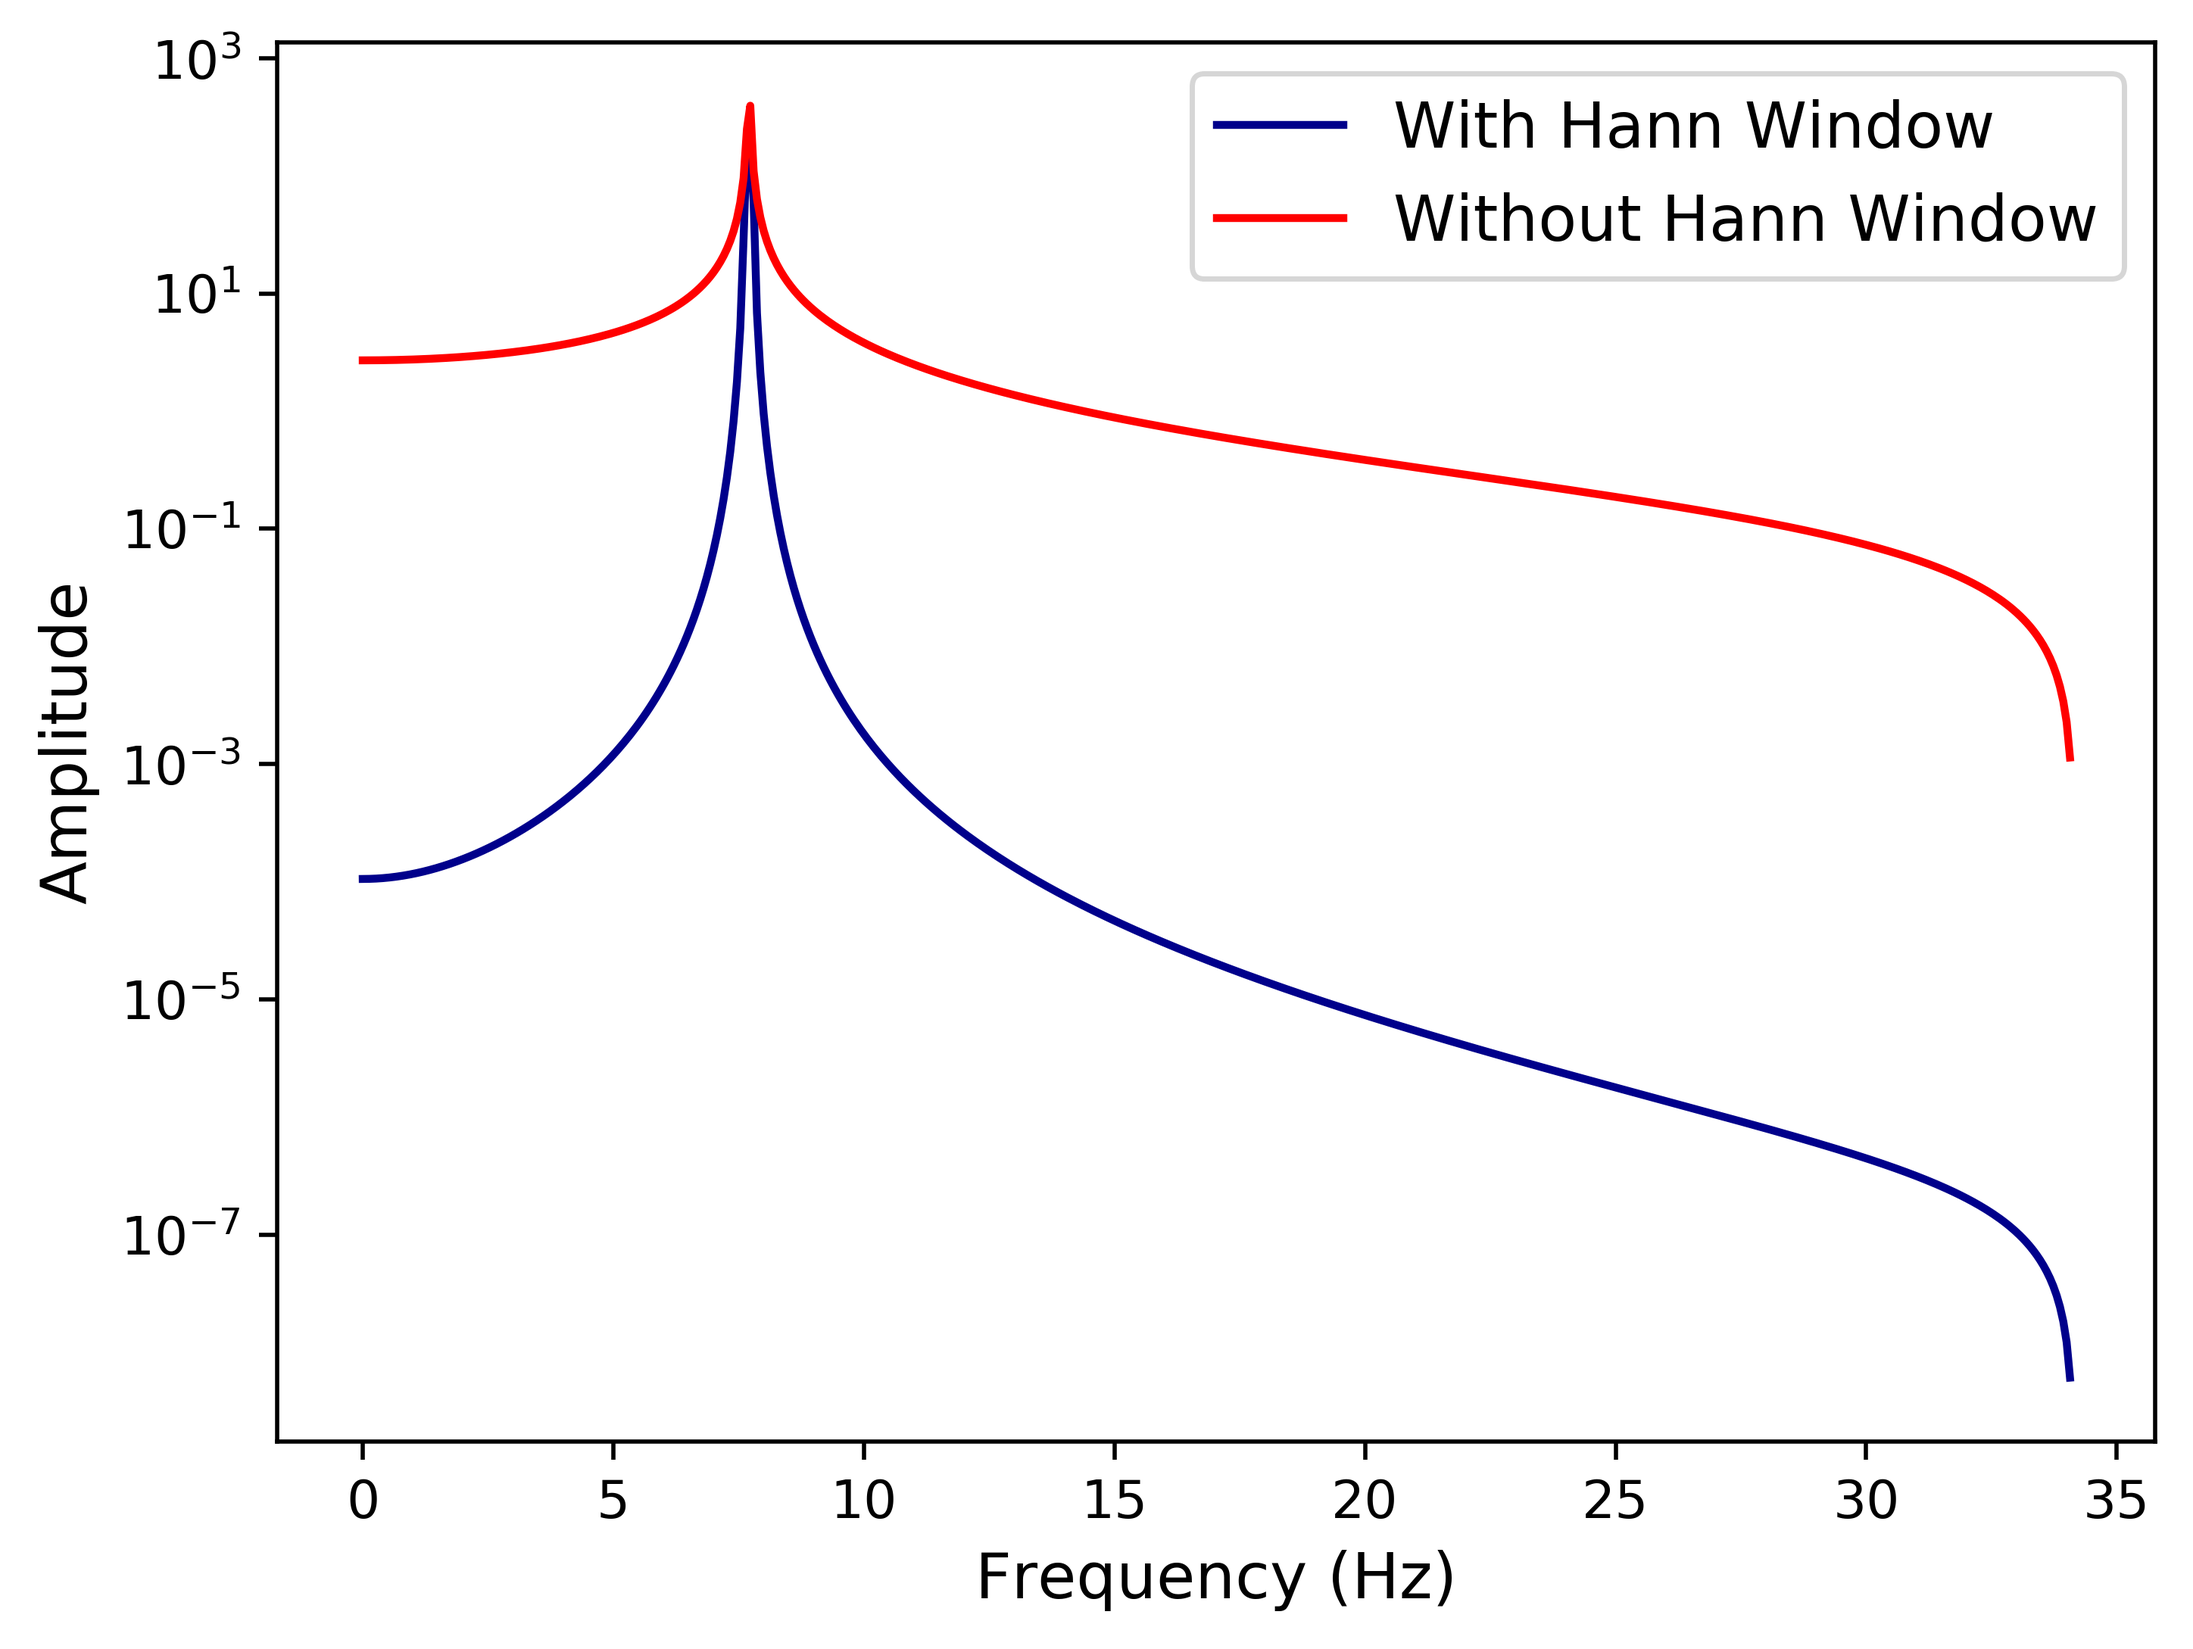
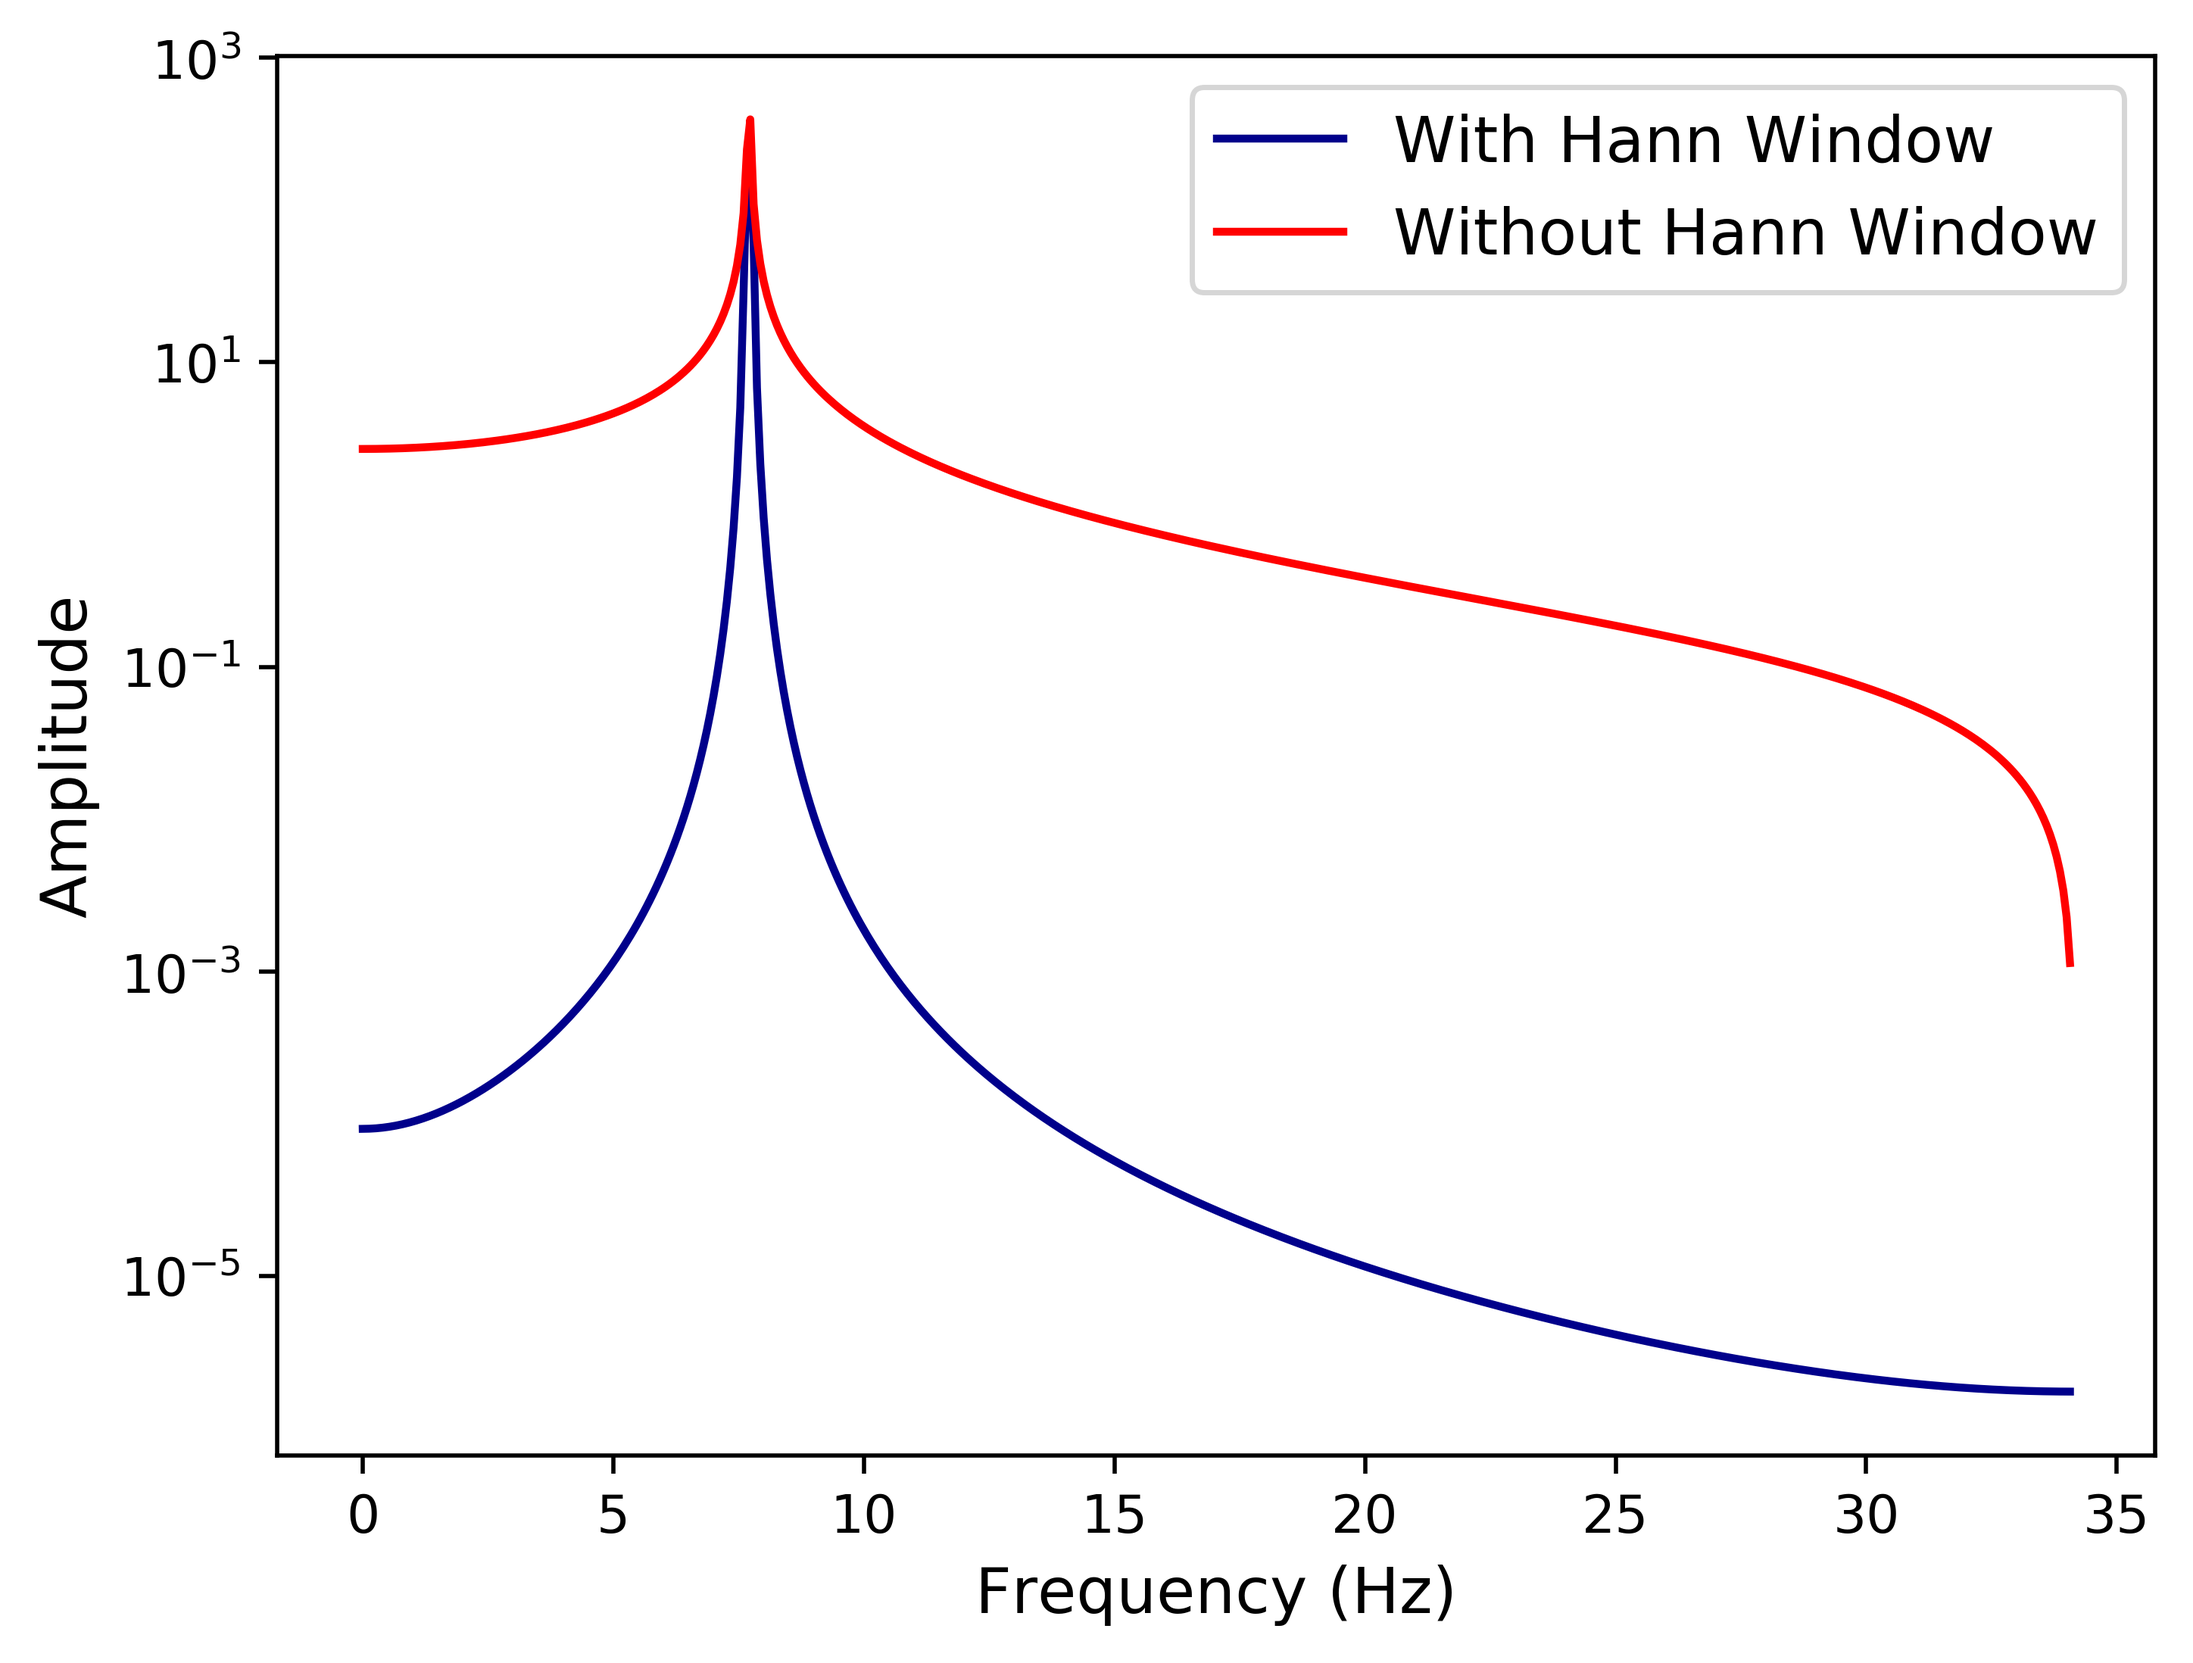
update

diff --git a/assignment4/problem_5.py b/assignment4/problem_5.py
@@ -34,11 +34,12 @@ plt.ylabel(r"Residauls ($10^{-11}$)",fontsize=12)
 #plt.savefig("problem_5_analyticres.png",bbox_inches="tight",dpi=500)
 plt.show()
 
-print("Mean Residual=",np.mean(res))
-print("Residual STD=",np.std(res,ddof=1))
+#print("Mean Residual=",np.mean(res))
+#print("Residual STD=",np.std(res,ddof=1))
 
 #Windowing: choose the window function to be 0.5-0.5cos(2πx/N) (i.e. the Hann window)
-ywind = np.hanning(N) #numpy function for the Hann window
+xx = np.linspace(0,N-1,N)/N
+ywind = 0.5*(1-np.cos(2*np.pi*xx))
 fftnew = fft(y*ywind)[:int(len(y)/2)]
 plt.plot(freq,np.abs(fftnew),color="darkblue",linewidth=2,label="With Hann Window")
 plt.plot(freq,np.abs(fftsine),"r-",linewidth=2,label="Without Hann Window")
@@ -58,14 +59,37 @@ plt.legend(fontsize=12)
 plt.show()
 
 #Fourier transform of the window
-ywind = np.hanning(N+1)
 ywindfft = fft(ywind)
+print("Showing the Fourier Transform of the Window =", np.real(ywindfft)/N)
 
-def wind(k):
-    first = 0.5*(np.sin(np.pi*N*k))/np.sin(np.pi*k)
-    second = 0.25*np.exp(-complex(0,1)*np.pi/N)*(np.sin(np.pi*N*(k-(1/N))))/np.sin(np.pi*(k-(1/N)))
-    third = 0.25*np.exp(complex(0,1)*np.pi/N)*(np.sin(np.pi*N*(k+(1/N))))/np.sin(np.pi*(k+(1/N)))
-    return np.exp(-complex(0,1)*np.pi*k*(N-1))*(first+second+third)
+"""
+#The analytic solution we produced if you want to check, however the results are not great
+def window(k):
+    first = (1-np.exp(-2*np.pi*complex(0,1)*k))/(1-np.exp(-2*np.pi*complex(0,1)*k/N))
+    second = (1-np.exp(-2*np.pi*complex(0,1)*(k+1)))/(1-np.exp(-2*np.pi*complex(0,1)*(k+1)/N))
+    third = (1-np.exp(-2*np.pi*complex(0,1)*(k-1)))/(1-np.exp(-2*np.pi*complex(0,1)*(k-1)/N))
+    return 0.5*(first-0.5*(second+third))
 
-print(np.abs(wind(np.linspace(0,N-1,N)/N))/N)
-print("Showing the Fourier Transform of the Window=",np.abs(ywindfft)/N)
+print("Analytic=", (window(np.linspace(0,N-1,N)))/N)"""
+
+#Recreating the window function with some code ;)
+fftsine = fft(y) #so we get the entire transform as we had cut out half of it before
+fftwindowm = []
+for i in range(0,len(fftsine)):
+    if i==0: #remember that it is symmetric, so we can find neighbor terms even for the boundary terms
+        fftwindowm.append(0.5*fftsine[i]-0.25*(fftsine[-1]+fftsine[i+1]))
+        continue
+    if i==len(fftsine)-1: #same as above
+        fftwindowm.append(0.5*fftsine[i]-0.25*(fftsine[0]+fftsine[i-1]))
+        continue
+    newval = 0.5*fftsine[i]-0.25*(fftsine[i-1]+fftsine[i+1])
+    fftwindowm.append(newval)
+fftwindowm = fftwindowm[:int(len(y)/2)]
+plt.plot(freq,np.abs(fftnew),color="darkblue",linewidth=2,label="Normal Method")
+plt.plot(freq,np.abs(fftwindowm),"r--",linewidth=2,label="Using Neighbors")
+plt.xlabel("Frequency (Hz)",fontsize=12)
+plt.ylabel("Amplitude",fontsize=12)
+plt.legend(fontsize=12)
+plt.show()
+
+print("Discrepancy =", np.mean(np.abs(fftwindowm)-np.abs(fftnew)))
